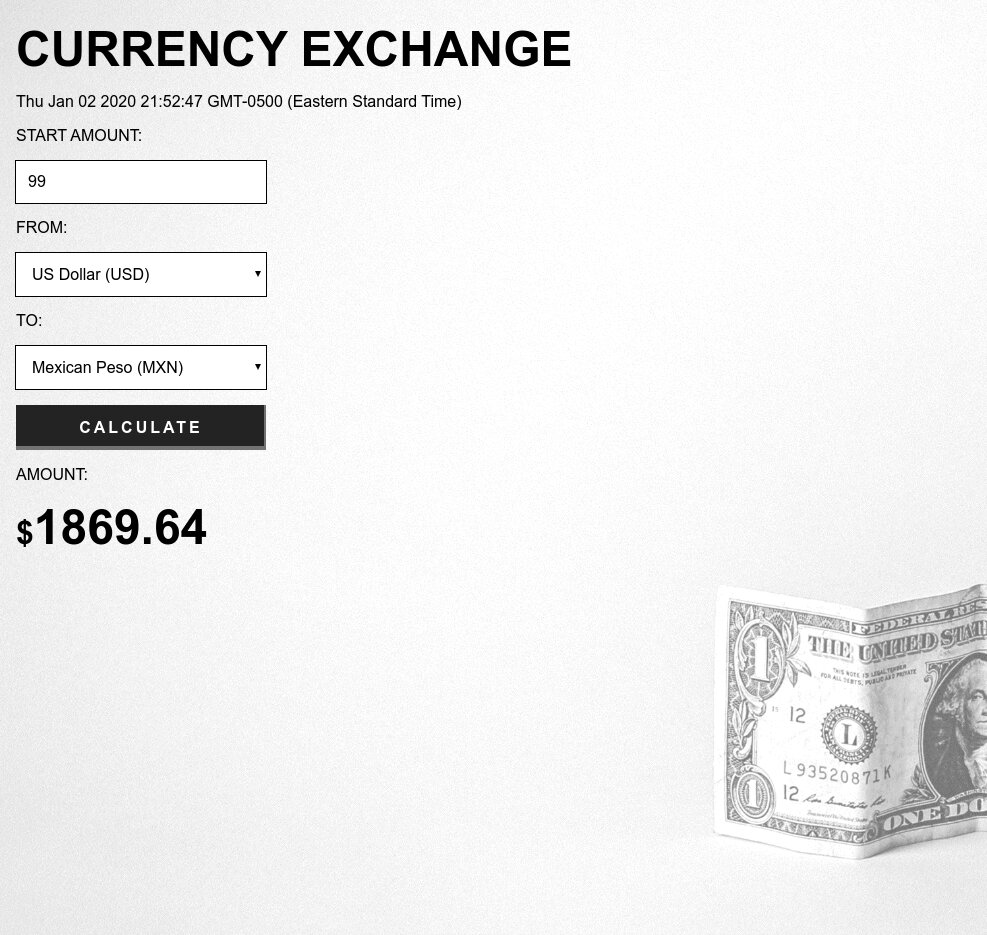
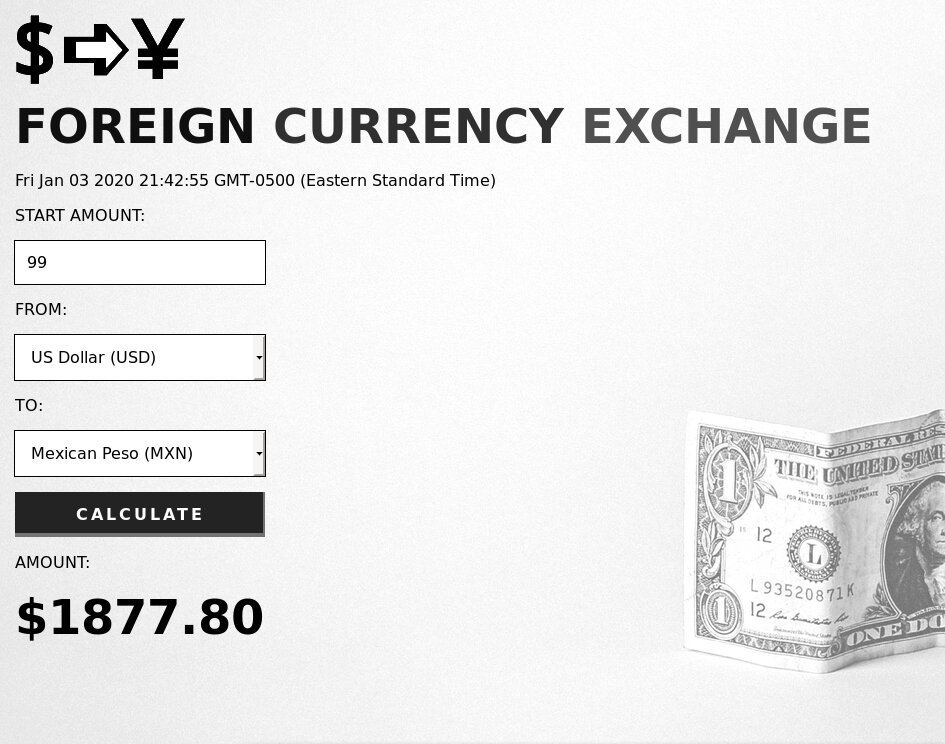
Improvement design
* Added custom logo
* Added classes to style the HTML
* Added new screeshots
* Added new favicon
* Added noscript message

diff --git a/application/templates/index.html b/application/templates/index.html
@@ -6,7 +6,13 @@
 
 {% block body %}
 
-  <h1 class="header">CURRENCY EXCHANGE</h1>
+  <img src="{{ url_for('static', filename='images/logo.png') }}">
+
+  <h1 class="header">
+    <span class="header__1">FOREIGN</span>
+    <span class="header__2">CURRENCY</span>
+    <span class="header__3">EXCHANGE</span>
+  </h1>
 
   <p class="date-and-time"></p>
 
@@ -22,13 +28,13 @@
     {{ form.from_currency(class='form__field') }}
     {{ form.to_currency.label }}
     {{ form.to_currency(class='form__field') }}
-    <button class="btn" type="submit">CALCULATE</button>
+    <button class="form__button" type="submit">CALCULATE</button>
     {{ form.csrf_token }}
   </form>
 
-  <div class="hidden">
+  <div>
     <p>AMOUNT:</p>
-    <h2 class="total"><span class="currency_symbol">$</span>{{ '{0:.2f}'.format(amount) if amount }}</h2>
+    <h2 class="total">{{ '${0:.2f}'.format(amount) if amount }}</h2>
   </div>
 
 {% endblock %}

diff --git a/application/static/css/style.css b/application/static/css/style.css
@@ -23,8 +23,20 @@ article {
 }
 
 .header {
-    margin: .5rem 0;
     font-size: 3rem;
+    margin: .5rem 0;
+}
+
+.header__1 {
+    color: #101010;
+}
+
+.header__2 {
+    color: #303030;
+}
+
+.header__3 {
+    color: #505050;
 }
 
 label {
@@ -58,7 +70,7 @@ option {
     box-sizing: border-box;
 }
 
-button {
+.form__button {
     width: 250px;
     height: 45px;
     border: none;
@@ -74,24 +86,15 @@ button {
     box-shadow: inset -2px -4px 0 #727272;
 }
 
-button:hover {
+.form__button:hover {
     background-color: #454545;
 }
 
-button:active {
+.form__button:active {
     box-shadow: inset 0 0 0 #727272;
-}
-
-.currency_symbol {
-    font-size: 2rem;
 }
 
 .total {
     margin: 1rem 0;
     font-size: 3rem;
-}
-
-.error__text,
-.error_emoji {
-    font-size: 2rem;
 }

diff --git a/application/templates/base.html b/application/templates/base.html
@@ -5,11 +5,17 @@
     <meta charset="utf-8">
     <meta name="viewport" content="width=device-width, initial-scale=1.0">
     <meta http-equiv="X-UA-Compatible" content="ie=edge">
+    <meta name="description" content="Foreign exchange currency converter">
+    <meta name="author" content="brandon_wallace">
     <link rel="stylesheet" href="{{ url_for('static', filename='css/style.css') }}">
     <link rel="icon" type="image/png" href="{{ url_for('static', filename='images/favicon.png') }}">
     <title>{% block title %}{% endblock %}</title>
   </head>
   <body>
+
+    <noscript>
+      <p>Please enable Javascript</p>
+    </noscript>
 
     <article>
 
